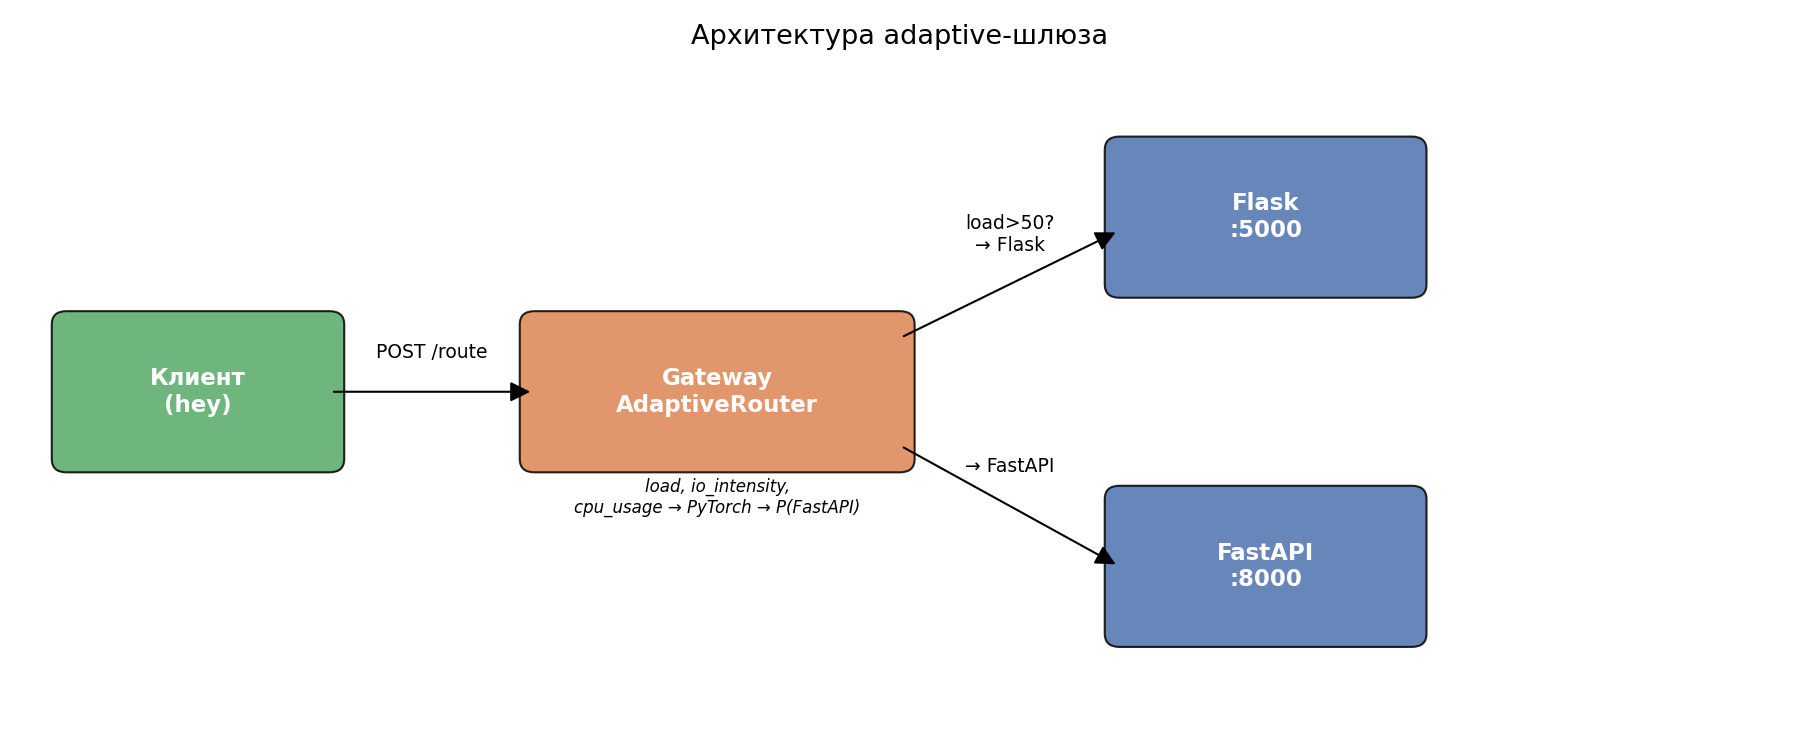
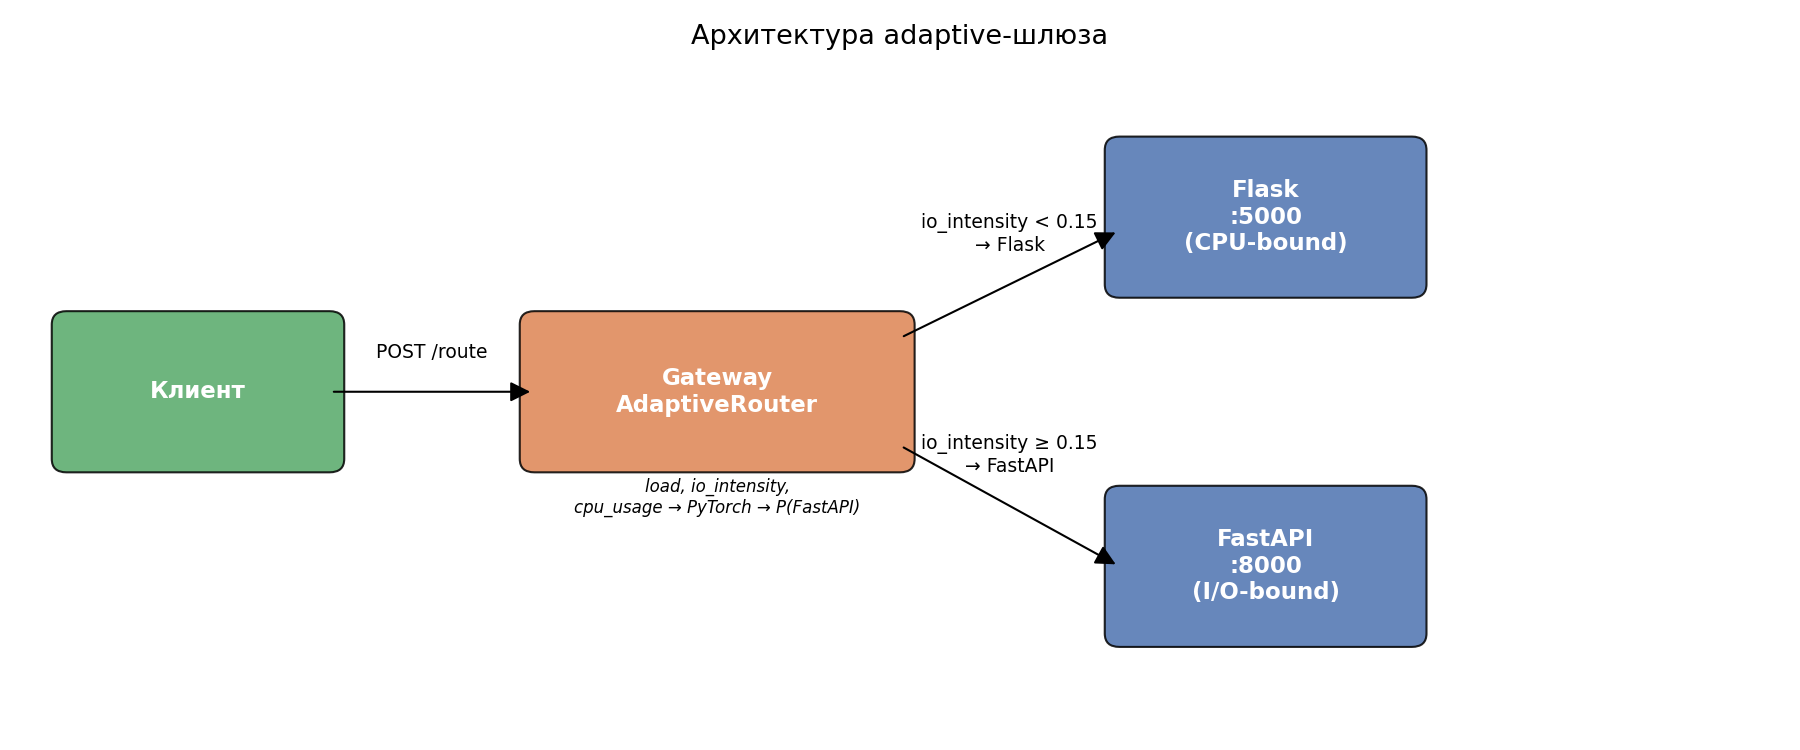
Fix architecture diagram to match actual routing rule
The diagram still labelled the routing arrows "load>50? -> Flask", which
was the old heuristic-mode threshold, not the rule the whole experiment
and write-up rest on (io_intensity >= 0.15). Anyone reading the pitch
alongside the diagram would have hit a contradiction.

Also adds a placeholder for the pitch deck folder and ignores the
generated workload database.

diff --git a/scripts/generate_architecture_diagram.py b/scripts/generate_architecture_diagram.py
@@ -22,14 +22,14 @@ def arrow(x1, y1, x2, y2, label=""):
     if label:
         ax.text((x1+x2)/2, (y1+y2)/2 + 0.25, label, ha="center", fontsize=9)
 
-box(0.3, 2, 1.8, 1, "Клиент\n(hey)", "#55A868")
+box(0.3, 2, 1.8, 1, "Клиент", "#55A868")
 box(3.5, 2, 2.5, 1, "Gateway\nAdaptiveRouter", "#DD8452")
-box(7.5, 3.3, 2, 1, "Flask\n:5000", "#4C72B0")
-box(7.5, 0.7, 2, 1, "FastAPI\n:8000", "#4C72B0")
+box(7.5, 3.3, 2, 1, "Flask\n:5000\n(CPU-bound)", "#4C72B0")
+box(7.5, 0.7, 2, 1, "FastAPI\n:8000\n(I/O-bound)", "#4C72B0")
 
 arrow(2.1, 2.5, 3.5, 2.5, "POST /route")
-arrow(6.0, 2.9, 7.5, 3.7, "load>50?\n→ Flask")
-arrow(6.0, 2.1, 7.5, 1.2, "→ FastAPI")
+arrow(6.0, 2.9, 7.5, 3.7, "io_intensity < 0.15\n→ Flask")
+arrow(6.0, 2.1, 7.5, 1.2, "io_intensity ≥ 0.15\n→ FastAPI")
 
 ax.text(4.75, 1.6, "load, io_intensity,\ncpu_usage → PyTorch → P(FastAPI)",
         ha="center", fontsize=8, style="italic")
